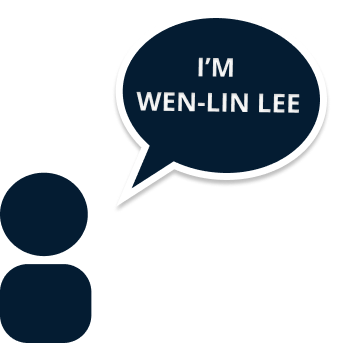
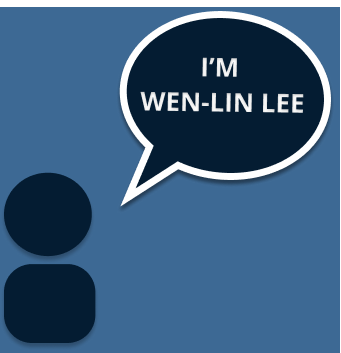
replace backround image with color

diff --git a/sass/main.scss b/sass/main.scss
@@ -124,7 +124,8 @@ body {
   display: flex;
   justify-content: center;
   align-items: center;
-  background-image: url('/images/nasa.jpg');
+  background-color: #5584ac;
+  // background-image: url('/images/nasa.jpg');
   height: 85vh;
   background-attachment: fixed;
   background-position: center;

diff --git a/css/style.css b/css/style.css
@@ -85,7 +85,7 @@ body {
   display: flex;
   justify-content: center;
   align-items: center;
-  background-image: url("/images/nasa.jpg");
+  background-color: #5584ac;
   height: 85vh;
   background-attachment: fixed;
   background-position: center;
